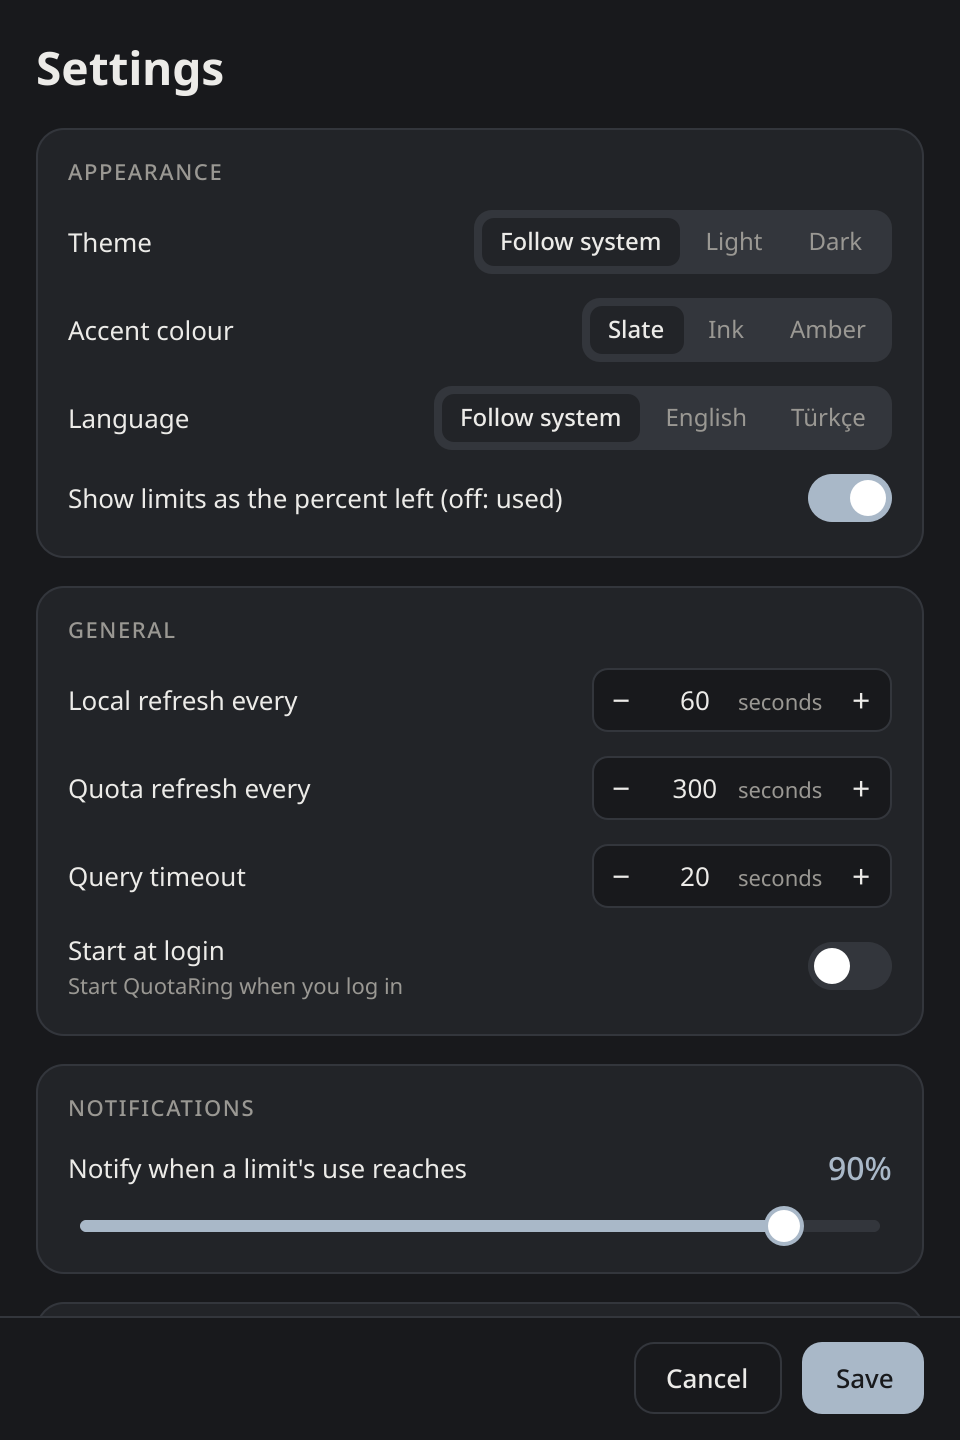
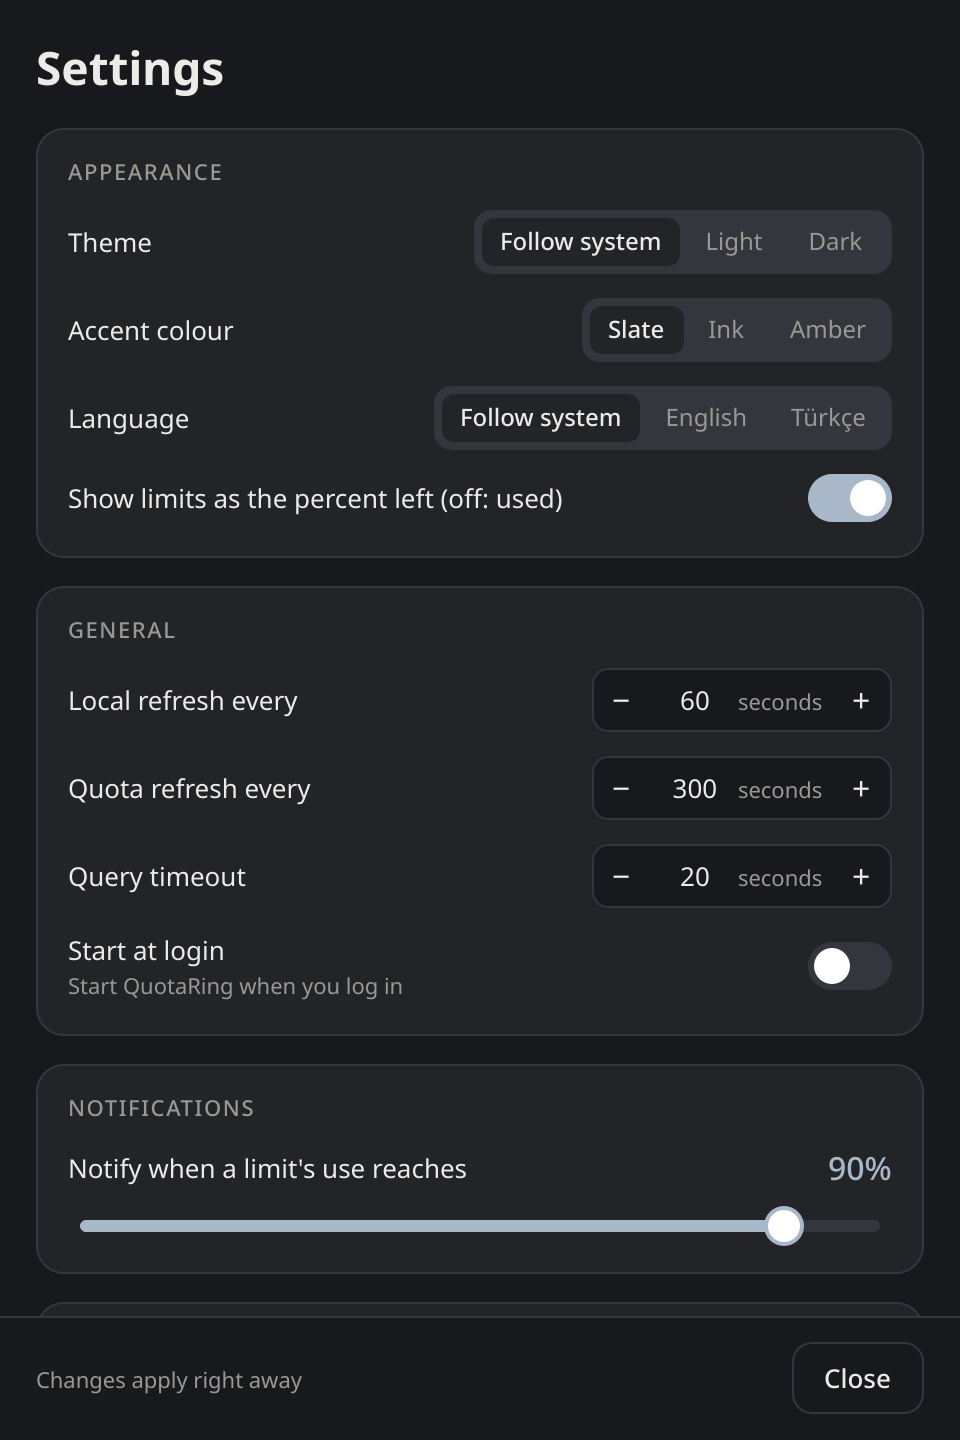
Settings apply as they change; no Save button
Every change in the settings window is applied right away (typed paths after a short
pause, or when the window closes). Providers are queried again only when a setting that
changes what is collected was changed, not for theme, colour or language.

Changed region(s): [[0.8125, 0.9062, 0.9688, 1.0], [0.0312, 0.9375, 0.3125, 0.9688], [0.6875, 0.9375, 0.7812, 0.9688]]

diff --git a/quotaring/ui/qml/SettingsWindow.qml b/quotaring/ui/qml/SettingsWindow.qml
@@ -2,8 +2,8 @@ import QtQuick
 import QtQuick.Controls.Basic  // own look on every OS; native styles ignore custom backgrounds
 import QtQuick.Layouts
 
-// Settings, in the popup's look. Edits a draft of `backend.settingsForm.values` (see
-// ui/settings_form.py); Save hands it to Python, which clamps and applies it.
+// Settings, in the popup's look. Edits a copy of `backend.settingsForm.values` (see
+// ui/settings_form.py) and hands every change to Python right away, which clamps and applies it.
 Window {
     id: win
     readonly property var f: backend.settingsForm
@@ -18,15 +18,24 @@ Window {
     title: t.title || "Settings"
     color: c.bg
 
-    function set(key, value) {
+    // Changes apply as they are made. Typed paths wait for a pause so a half-typed one is never used.
+    function set(key, value, typed) {
         const d = Object.assign({}, draft);
         d[key] = value;
         draft = d;
+        applyTimer.interval = typed ? 800 : 150;
+        applyTimer.restart();
     }
-    onVisibleChanged: if (visible) draft = Object.assign({}, f.values || {})
+    function flush() {
+        if (applyTimer.running) {
+            applyTimer.stop();
+            backend.saveSettings(draft);
+        }
+    }
+    Timer { id: applyTimer; onTriggered: backend.saveSettings(win.draft) }
+    onVisibleChanged: if (visible) draft = Object.assign({}, f.values || {}); else flush()
 
     Shortcut { sequence: "Esc"; onActivated: win.close() }
-    Shortcut { sequences: ["Ctrl+S", "Ctrl+Return"]; onActivated: save.clicked() }
 
     ColumnLayout {
         anchors.fill: parent
@@ -209,8 +218,8 @@ Window {
 
                 Section {
                     title: win.t.commands
-                    Field { label: win.t.claudeCommand; text: win.draft.claude_command || ""; onEdited: v => win.set("claude_command", v) }
-                    Field { label: win.t.codexCommand; text: win.draft.codex_command || ""; onEdited: v => win.set("codex_command", v) }
+                    Field { label: win.t.claudeCommand; text: win.draft.claude_command || ""; onEdited: v => win.set("claude_command", v, true) }
+                    Field { label: win.t.codexCommand; text: win.draft.codex_command || ""; onEdited: v => win.set("codex_command", v, true) }
                     Text {
                         Layout.fillWidth: true
                         wrapMode: Text.WordWrap
@@ -234,17 +243,13 @@ Window {
                 anchors.leftMargin: 18
                 anchors.rightMargin: 18
                 spacing: 10
-                Item { Layout.fillWidth: true }
-                Button2 { text: win.t.cancel || "Cancel"; onClicked: win.close() }
-                Button2 {
-                    id: save
-                    primary: true
-                    text: win.t.save || "Save"
-                    onClicked: {
-                        backend.saveSettings(win.draft);
-                        win.close();
-                    }
+                Text {
+                    text: win.t.instant || ""
+                    color: win.c.muted
+                    font.pointSize: 8.5
                 }
+                Item { Layout.fillWidth: true }
+                Button2 { text: win.t.close || "Close"; onClicked: win.close() }
             }
         }
     }

diff --git a/quotaring/app.py b/quotaring/app.py
@@ -232,9 +232,18 @@ class Controller(QObject):
         self.backend.set_settings_form(settings_form.form(self.settings, autostart.supported()))
         self.popup.open_settings()
 
+    def _data_settings(self) -> tuple:
+        """Settings that change what is collected: only these warrant querying the providers again."""
+        s = self.settings
+        return (dict(s.providers_enabled), dict(s.quota_enabled), s.claude_command, s.codex_command,
+                s.timeout_seconds)
+
     def apply_settings(self, values: dict):
+        """Called for every change in the settings window (it has no Save button)."""
+        before = (self._data_settings(), self.settings.language)
         settings_form.apply(self.settings, values)
-        self.apply_language()
+        if self.settings.language != before[1]:
+            self.apply_language()
         try:
             if autostart.supported() and autostart.is_enabled() != self.settings.start_at_login:
                 autostart.set_enabled(self.settings.start_at_login)
@@ -244,8 +253,9 @@ class Controller(QObject):
         self.backend.notify_settings_changed()
         self.apply_theme()
         self.apply_intervals()
-        self.engine.next_quota_at.clear()
-        self.refresh(force=True)
+        if self._data_settings() != before[0]:
+            self.engine.next_quota_at.clear()
+            self.refresh(force=True)
 
     def apply_language(self):
         """Switch the UI language now: every text is translated when the view is rebuilt."""

diff --git a/tests/test_ui.py b/tests/test_ui.py
@@ -238,3 +238,31 @@ def test_accent_setting_round_trip(app, settings):
     assert settings.accent == "amber"
     assert settings_form.form(settings, False)["values"]["accent"] == "amber"
     assert not make_icon(settings.accent).pixmap(32, 32).isNull()
+
+
+def test_settings_apply_without_save(app, settings, qml_errors):
+    from PySide6.QtCore import Q_ARG, QMetaObject
+    from quotaring.ui import settings_form
+    backend, popup = popup_for(settings)
+    backend.set_settings_form(settings_form.form(settings, True))
+    saved = []
+    backend.settingsSaved.connect(lambda values: saved.append(values))
+    popup.open_settings()
+    settle(app)
+    win = popup.settings_window
+
+    def change(key, value, typed=False):
+        QMetaObject.invokeMethod(win, "set", Q_ARG("QVariant", key), Q_ARG("QVariant", value),
+                                 Q_ARG("QVariant", typed))
+
+    change("theme", "dark")
+    deadline = time.time() + 2
+    while not saved and time.time() < deadline:
+        settle(app, 1)
+        time.sleep(0.02)
+    assert saved and saved[-1]["theme"] == "dark"  # applied without a Save button
+    change("claude_command", "/opt/claude", typed=True)
+    win.close()  # closing applies a typed value that was still waiting for a pause
+    settle(app)
+    assert saved[-1]["claude_command"] == "/opt/claude"
+    assert qml_errors == []

diff --git a/quotaring/ui/settings_form.py b/quotaring/ui/settings_form.py
@@ -27,7 +27,7 @@ def form(s: Settings, autostart_supported: bool) -> dict:
         "autostartHint": "Start QuotaRing when you log in", "notify": "Notify at quota",
         "notifyHint": "Notify when a limit's use reaches", "off": "Off", "track": "Track this provider",
         "checkQuota": "Check the provider's account limits", "claudeCommand": "claude command",
-        "codexCommand": "codex command", "save": "Save", "cancel": "Cancel",
+        "codexCommand": "codex command", "close": "Close", "instant": "Changes apply right away",
         "privacy": "Quota checks start the provider's own CLI (no model request). "
                    "The widget never reads or stores credentials.",
     }.items()}

diff --git a/quotaring/i18n.py b/quotaring/i18n.py
@@ -66,8 +66,8 @@ TR = {
     "Antigravity IDE (local cache)": "Antigravity IDE (yerel önbellek)",
     "Antigravity IDE": "Antigravity IDE",
     "Notifications": "Bildirimler",
-    "Save": "Kaydet",
-    "Cancel": "İptal",
+    "Close": "Kapat",
+    "Changes apply right away": "Değişiklikler hemen uygulanır",
     "seconds": "saniye",
     "Check the provider's account limits": "Sağlayıcının hesap limitlerini sorgula",
     "Track this provider": "Bu sağlayıcıyı izle",

diff --git a/README.md b/README.md
@@ -144,8 +144,9 @@ Saved as JSON in:
 
 <img src="docs/images/settings-dark.png" width="360" align="right" alt="Settings window, dark theme">
 
-Open Settings from the gear in the popup or the tray menu. Changes apply on Save, without a
-restart — including the language (follows the system, Turkish or English, or set it here).
+Open Settings from the gear in the popup or the tray menu. Every change applies as you make it,
+with no Save button and no restart, including the language (follows the system, Turkish or
+English, or set it here) and the accent colour.
 
 Options: theme (system / light / dark), accent colour (Slate, Ink or Amber; the tray and app icon follow it), language, limits as percent left or used, local
 refresh interval (default 60 s), quota refresh interval (default 300 s), query timeout (20 s),
